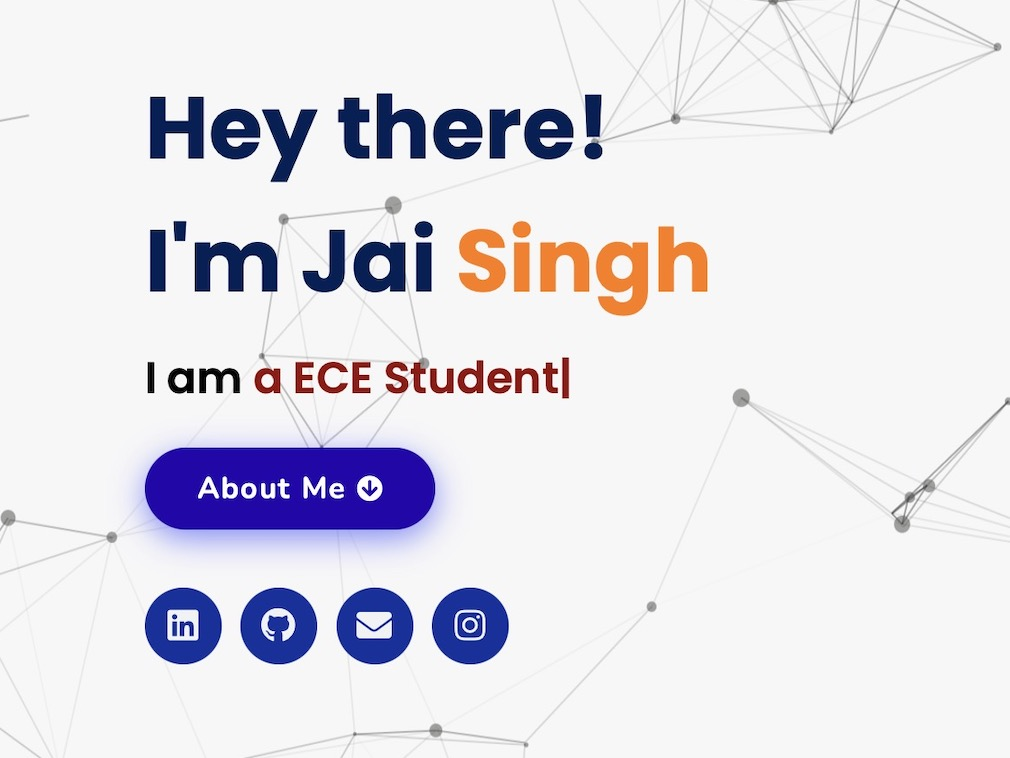
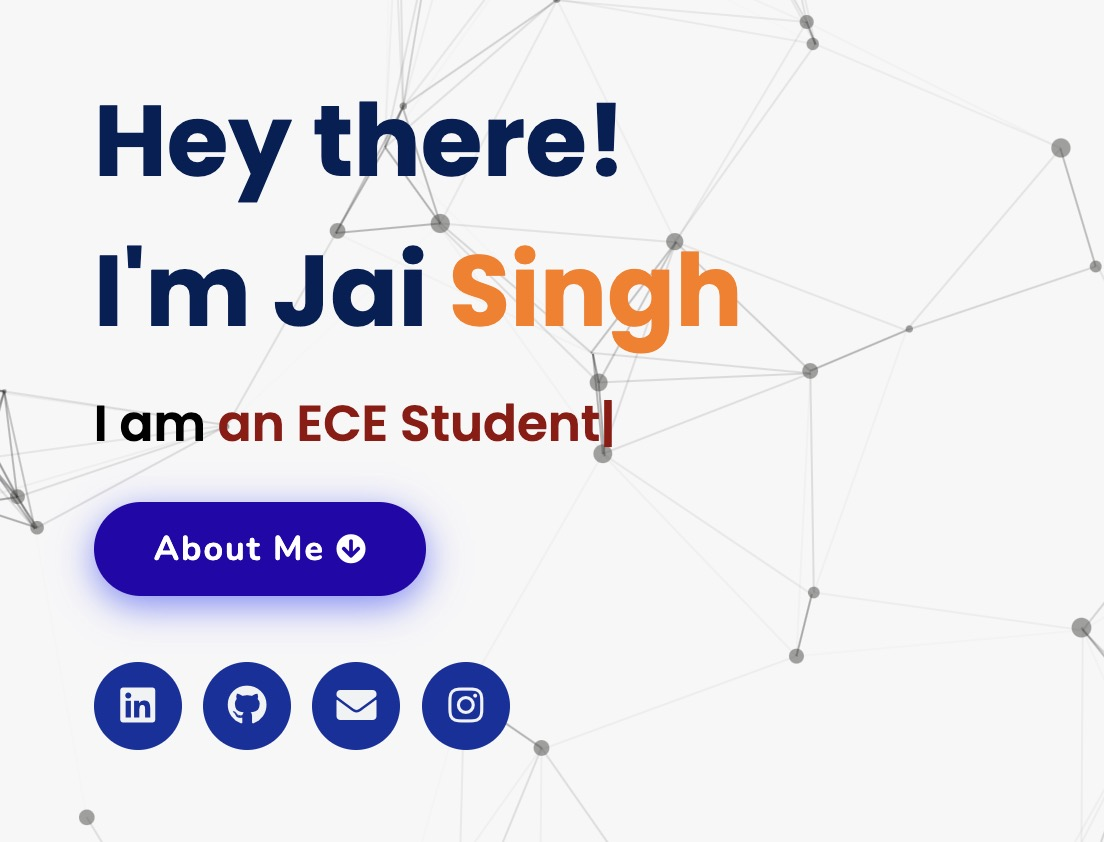
fourth commit

diff --git a/js/script.js b/js/script.js
@@ -51,7 +51,7 @@ function(){
 
 // <!-- typed js effect starts -->
     var typed = new Typed(".typing-text", {
-        strings: ["a ECE Student", "into Web Development", "into Data Structures and Algorithms"],
+        strings: ["an ECE Student", "into Web Development", "into Data Structures and Algorithms"],
         loop: true,
         typeSpeed: 50,
 		backSpeed: 35,

diff --git a/index.html b/index.html
@@ -27,7 +27,7 @@
 
 <!-- navbar starts -->
 <header>
-  <a href="/" class="logo">Hope your day is going well <i class="fa fa-heart pulse"></i></a>
+  <a class="logo">Hope your day is going well <i class="fa fa-heart pulse"></i></a>
   <div id="menu" class="fas fa-bars"></div>
   <nav class="navbar">
       <ul>
